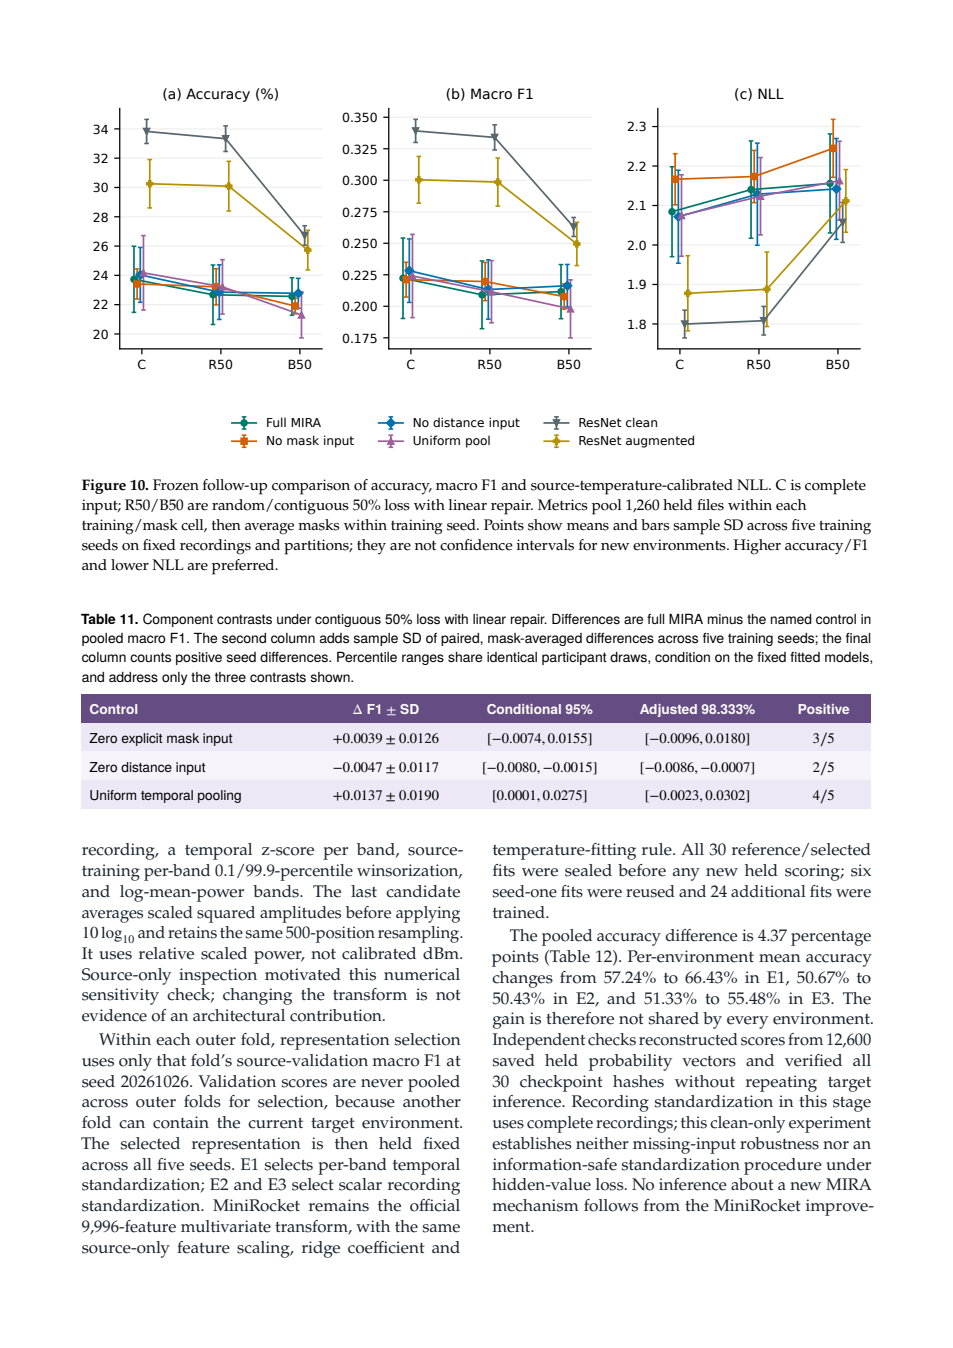
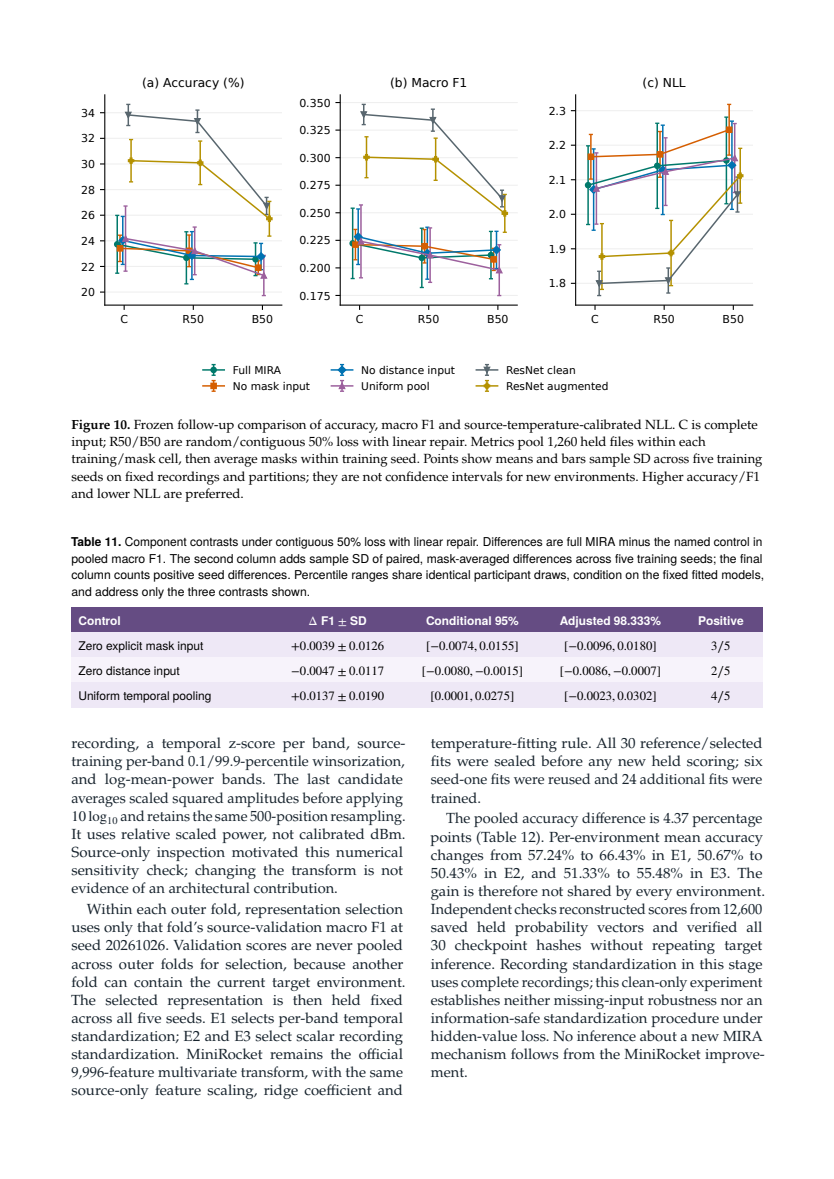
Prepare author-approved preprint declaration and current manuscript

diff --git a/paper/source/main.tex b/paper/source/main.tex
@@ -717,12 +717,18 @@ These are descriptive results for one small, fixed subset. Five masks are repeat
 
 Figure~\ref{fig:csimaps} contains genuine six-class NTU-Fi pilot inputs on their original exported amplitude scale. These examples, the 48-file pilot scores and its unavailable participant metadata remain separate from the seven-label, participant-disjoint main study. The full pilot manifests and saved predictions remain in the supplementary reproduction archive.
 
+\begingroup
+\fontsize{9.5}{12.5}\selectfont
+\noindent\textbf{Declarations.} No specific funding was received for this study. The author declares no relevant financial or non-financial competing interests, including through Share'In Holding. This analysis reuses public data; no new participants were recruited.
+
+\noindent\textbf{Use of AI-assisted tools.} AI-based tools assisted manuscript drafting, software development and preparation of explanatory illustrations. Quantitative results were computed from the documented public recordings and checked against saved predictions through separate verification procedures. The author is responsible for reviewing and approving the final manuscript, code, references and figures.
+\par\endgroup
+
 % Finish all pending figures before the final references section.
 \onecolumn
 \begingroup
 \begin{multicols}{2}
 \fontsize{9.5}{12.5}\selectfont
-\noindent\textbf{Declarations.} No specific funding was received for this study. The author declares no relevant financial or non-financial competing interests, including through Share'In Holding. This analysis reuses public data; no new participants were recruited.
 
 
 

diff --git a/README.md b/README.md
@@ -42,6 +42,8 @@ Software & Cybersecurity Engineer | AI & EdTech — **Share'In Holding**
 
 **Download the evidence:** [v0.2.0 research release](https://github.com/ABDESSAMAD-BOURKIBATE/mira-csi/releases/tag/v0.2.0) · [validated reproducibility supplement](https://github.com/ABDESSAMAD-BOURKIBATE/mira-csi/releases/download/v0.2.0/MIRA-CSI-reproducibility-supplement-20261028-validated.zip) · [SHA256 checksums](https://github.com/ABDESSAMAD-BOURKIBATE/mira-csi/releases/download/v0.2.0/SHA256SUMS.txt). The original v0.1.0 predictor package remains linked in Quick start.
 
+**Software update:** [v0.2.1 integrity patch](https://github.com/ABDESSAMAD-BOURKIBATE/mira-csi/releases/tag/v0.2.1) validates artifact reuse, checkpoint-bound calibration and portable text hashes. It preserves the recorded model results; [verification details](evaluation/software-integrity/README.md) include the clean-checkout check.
+
 <details>
 <summary><strong>Preview actual manuscript pages</strong></summary>
 
@@ -366,8 +368,8 @@ Use **Cite this repository** on GitHub or [`CITATION.cff`](CITATION.cff).
   author  = {Bourkibate, Abdessamad},
   title   = {{MIRA-CSI}: Missingness-Informed Recognition of Activities from Wi-Fi CSI},
   year    = {2026},
-  version = {0.2.0},
-  url     = {https://github.com/ABDESSAMAD-BOURKIBATE/mira-csi/releases/tag/v0.2.0}
+  version = {0.2.1},
+  url     = {https://github.com/ABDESSAMAD-BOURKIBATE/mira-csi/releases/tag/v0.2.1}
 }
 ```
 

diff --git a/paper/README.md b/paper/README.md
@@ -7,6 +7,9 @@ Eng. **Abdessamad Bourkibate** · 28 October 2026
 
 This is the **unreviewed author manuscript**: 21 pages, 14 tables, 14 figures and
 21 references. It has not been accepted by a journal and has no assigned DOI.
+The current author version includes the author-approved AI-assistance declaration
+on page 20. Numerical results are unchanged. The [v0.2.0 archived PDF](https://github.com/ABDESSAMAD-BOURKIBATE/mira-csi/releases/download/v0.2.0/MIRA-CSI-reliability-manuscript-20261028.pdf)
+predates that declaration; its published checksums remain valid for that archived version.
 The contribution is an executable model and a bounded, reproducible reliability study; the reported
 component findings are mixed and do not establish broad model superiority.
 
